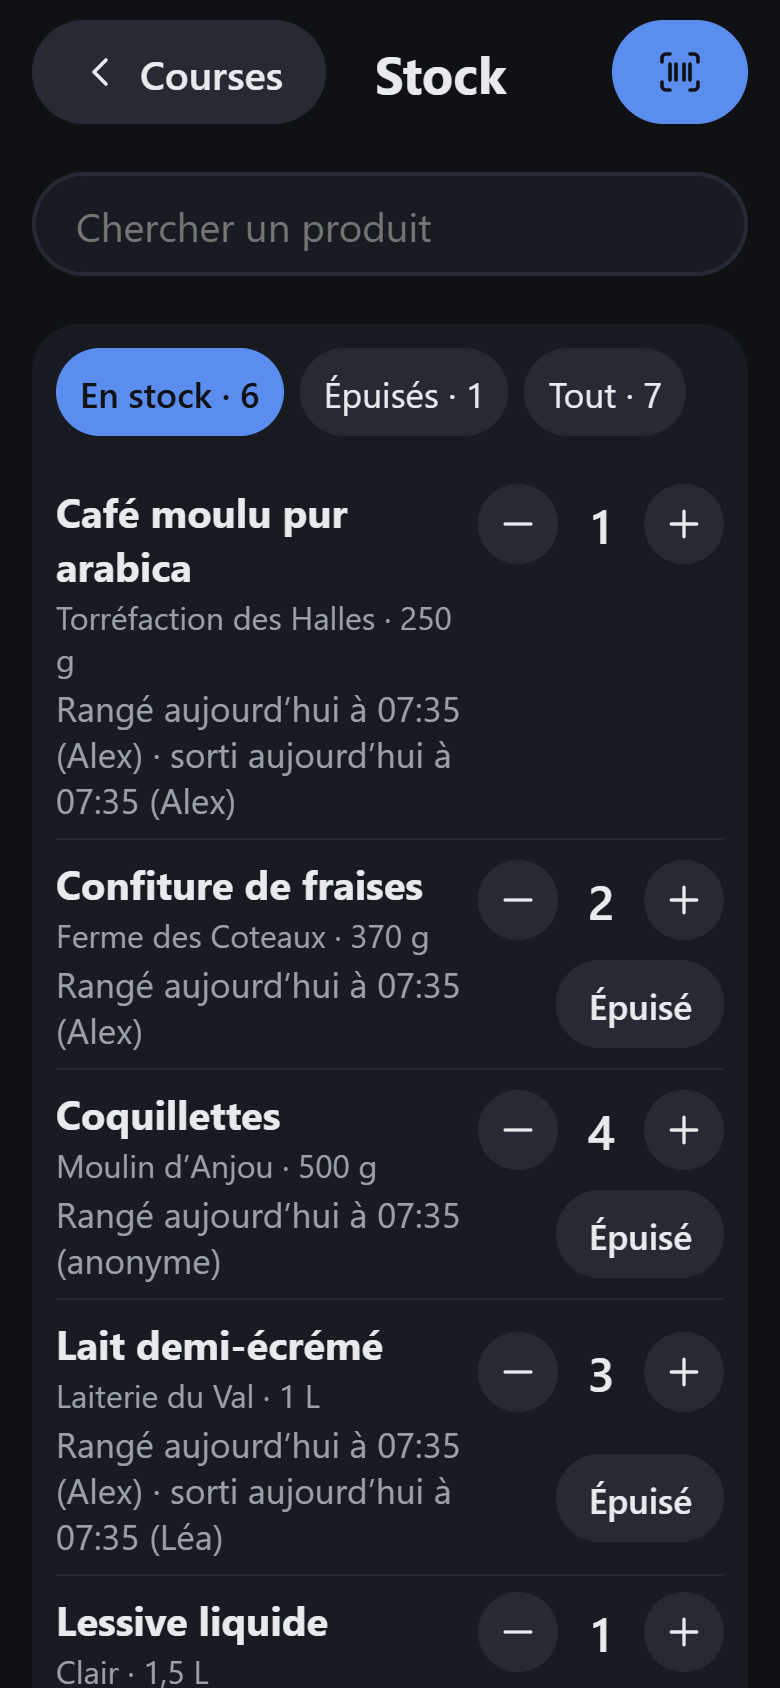
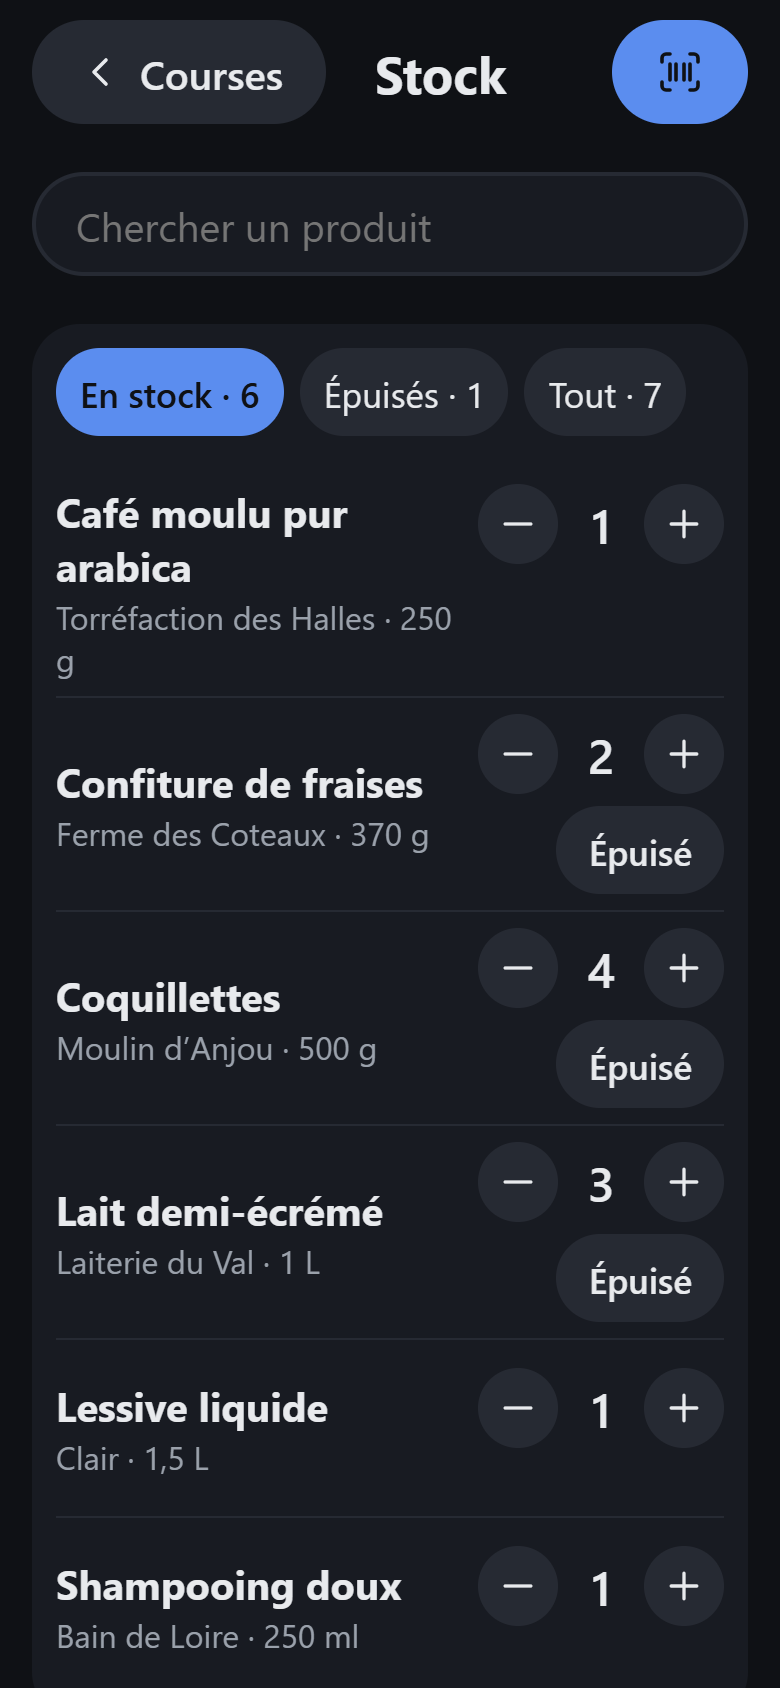
0.35.1 : stock du téléphone sans date ni auteur
« Ce qu'il reste à la maison » ne montre plus quand ni par qui un produit a été
scanné : ça prend de la place, sans servir au magasin. L'historique reste dans la
fiche du produit, et la page de la tablette ne change pas.

diff --git a/web/src/screens/Stock.svelte b/web/src/screens/Stock.svelte
@@ -14,7 +14,8 @@
 
   // Stock de la maison (tablette ; depuis Listes ou le scanner) : ce qu'on a, ce qui est épuisé, les contenants et
   // leur étiquette, et le réglage de la liste de courses. Les quantités se corrigent ici à la main (inventaire).
-  // Sur le téléphone (`back` : null), pour voir au magasin ce qu'il reste : les produits, et les contenants en lecture.
+  // Sur le téléphone (`back` : null), pour voir au magasin ce qu'il reste : les produits, sans date ni auteur (dans leur
+  // fiche), et les contenants en lecture.
   type Props = { back: PageRoute | null };
   let { back }: Props = $props();
 
@@ -114,7 +115,7 @@
         <ul class="list">
           {#each shown as entry (entry.product.code)}
             {@const product = entry.product}
-            {@const marks = lastMarksLine(entry, clock.now, nameOf)}
+            {@const marks = phone ? '' : lastMarksLine(entry, clock.now, nameOf)}
             <li class:empty={entry.quantity === 0}>
               <button type="button" class="name" onclick={() => (dialog = { kind: 'sheet', product, quantity: entry.quantity })}>
                 <strong>{product.current.name}{#if product.conflict}<span class="flag" title="La base dit autre chose">!</span>{/if}</strong>

diff --git a/docs/ecrans.md b/docs/ecrans.md
@@ -1,6 +1,6 @@
 # Écrans
 
-Captures de HomeHub 0.35.0, avec des **données fictives** : famille de test (Alex, Sam, Léa, Tom), agenda d'exemple,
+Captures de HomeHub 0.35.1, avec des **données fictives** : famille de test (Alex, Sam, Léa, Tom), agenda d'exemple,
 faux ÉcoleDirecte, faux temps réel Irigo, produits et marques inventés à la place d'Open Food Facts, horloge arrêtée le jeudi 5 novembre 2026 à 07:35. La météo est réelle,
 celle du jour de la capture.
 
@@ -102,7 +102,8 @@ Relier un téléphone à un profil (QR code), voir et retirer les téléphones r
 ### Stock du téléphone
 
 « Ce qu'il reste à la maison », en haut de l'onglet Courses : pour le voir au magasin. Recherche, produits en stock
-ou épuisés, ± 1 et « Épuisé », fiche du produit ; plus bas, les contenants en lecture seule.
+ou épuisés, ± 1 et « Épuisé » ; ni date ni auteur dans la liste, ils restent dans la fiche du produit ; plus bas, les
+contenants en lecture seule.
 
 <img src="images/telephone-stock.png" alt="Stock du téléphone" width="260">
 

diff --git a/README.md b/README.md
@@ -40,7 +40,7 @@ Captures, diagrammes d'architecture et design : [docs/](docs/README.md).
     d'office, « Épuisé » toujours possible). L'étiquette du contenant (code-barres interne, préfixe 29), scannée en
     mode « Jeté / épuisé », le déclare vide.
 - **Stock** (`/stock`, depuis le scanner ou la page Listes ; `/m/stock` sur le téléphone, depuis l'onglet Courses, pour
-  voir au magasin ce qu'il reste, contenants en lecture seule) : produits en stock, épuisés ou tous, recherche ; ± 1 et
+  voir au magasin ce qu'il reste, sans date ni auteur, contenants en lecture seule) : produits en stock, épuisés ou tous, recherche ; ± 1 et
   « Épuisé » à la main (pour le stock déjà là ou un oubli) ; sous chaque produit, la dernière entrée et la dernière
   sortie (« Rangé hier à 18:20 (Léa) · sorti aujourd'hui à 07:30 (anonyme) »), et pour un produit épuisé seulement
   quand et par qui (« Épuisé aujourd'hui à 07:30 (anonyme) ») ; fiche de chaque produit : historique

diff --git a/TODO.md b/TODO.md
@@ -72,7 +72,7 @@ Reste :
 
 - [ ] Vérifier sur la tablette et un téléphone : lecture en continu, bip (son autorisé par Fully Kiosk ?), « Retire le
       produit » au bon moment, distance de lecture des petits codes (EAN-8), étiquette imprimée bien lue.
-- [x] Inventaire consultable depuis le téléphone (page Stock de la PWA, `/m/stock`, 0.35.0).
+- [x] Inventaire consultable depuis le téléphone (page Stock de la PWA, `/m/stock`, 0.35.0 ; sans date ni auteur, 0.35.1).
 - [ ] « J'en ai déjà » des recettes, d'après le stock.
 - [ ] Plus tard, en option : renvoyer une correction à Open Food Facts avec le compte de l'utilisateur, seulement à
       sa demande.
